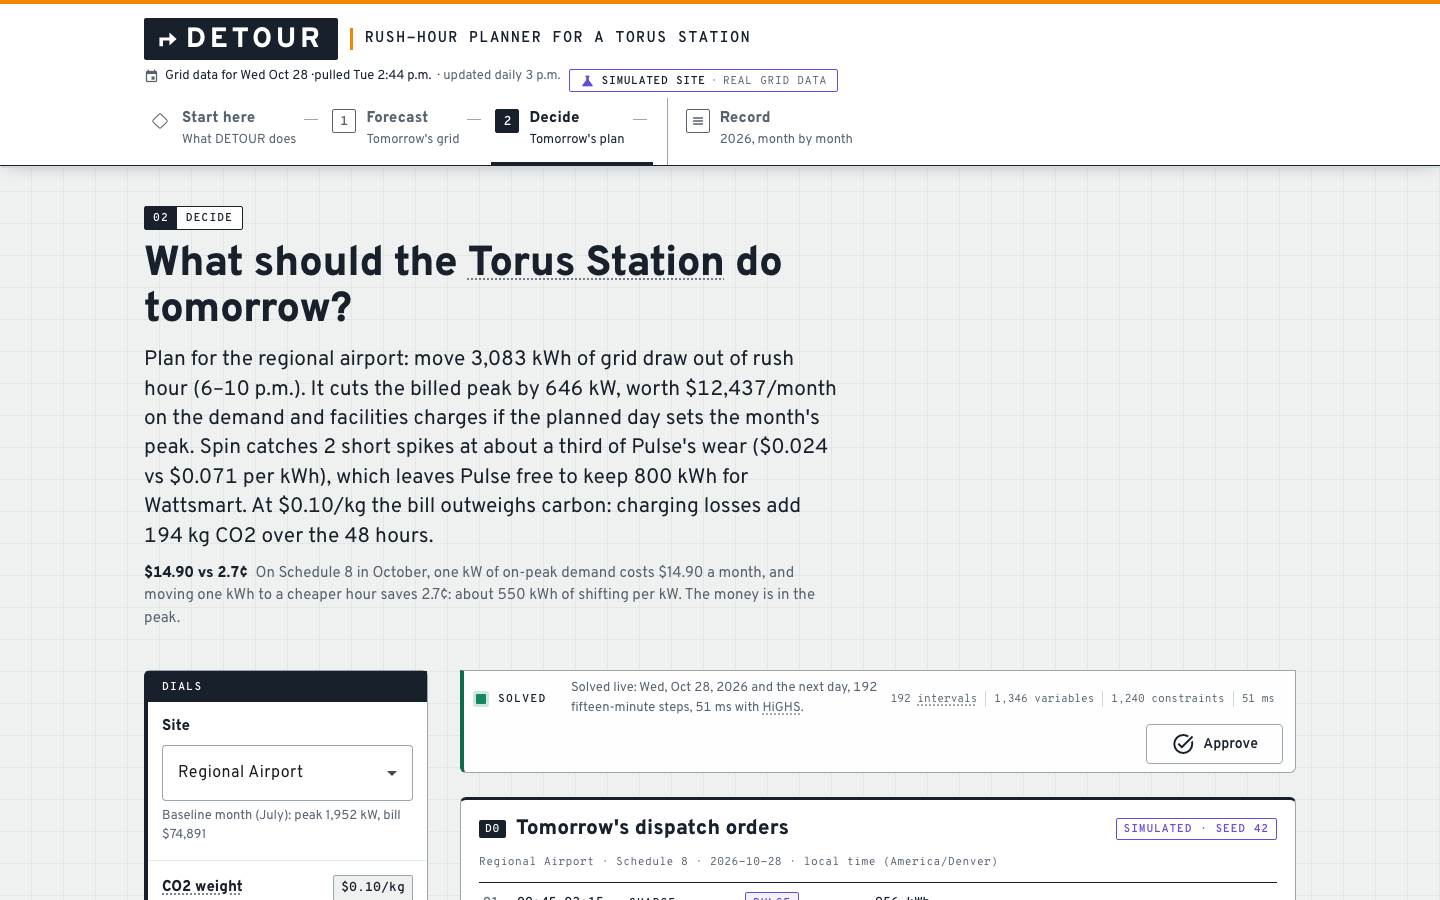
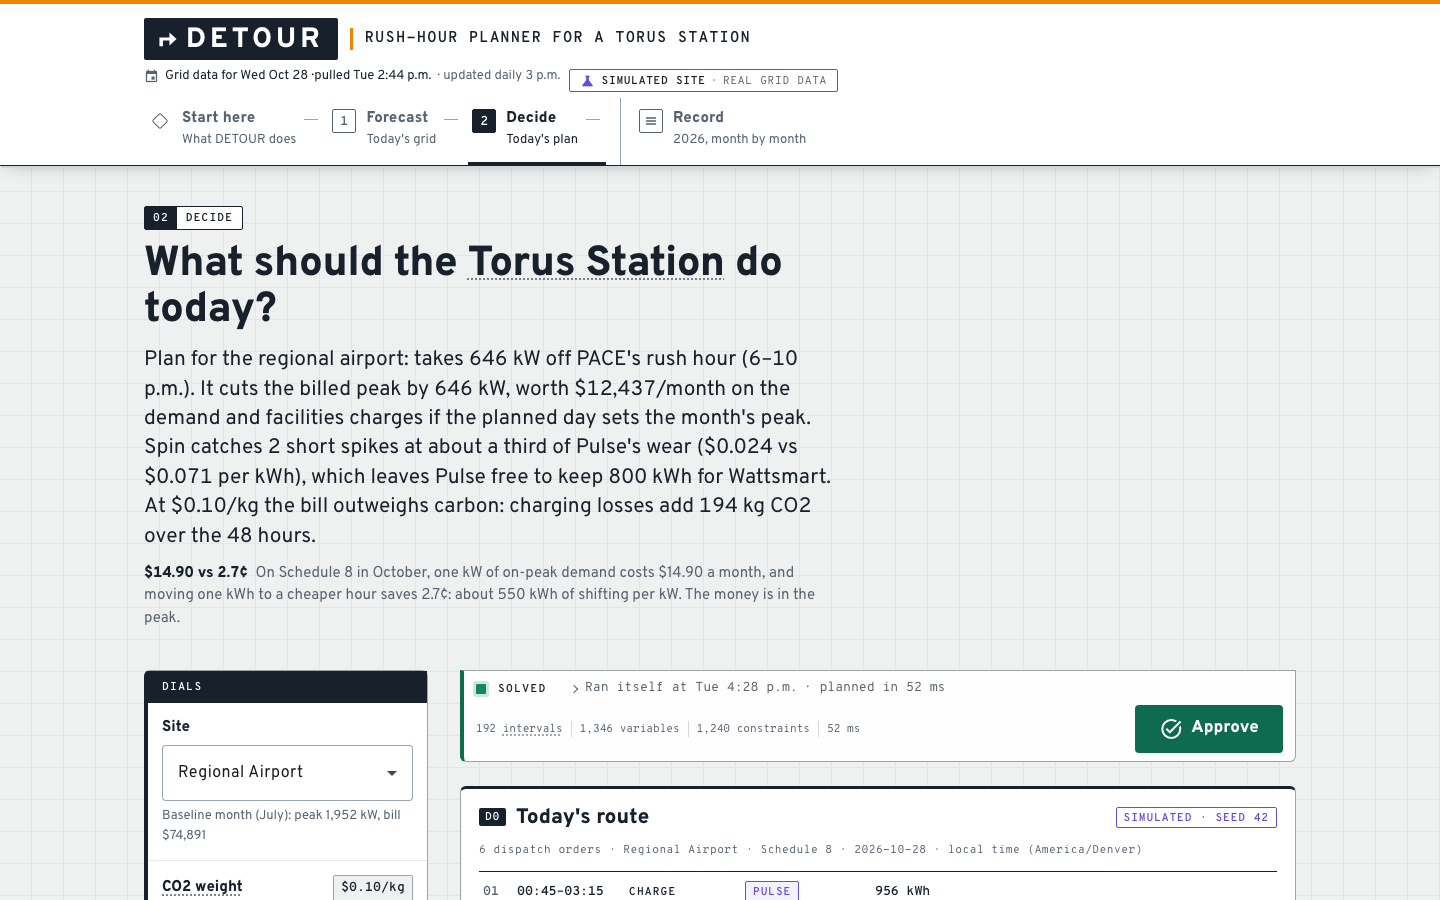
docs: drop the web.app link and update README for phase 12 (#32)
docs: drop the web.app link and update README and screenshots for phase 12

diff --git a/README.md b/README.md
@@ -4,9 +4,7 @@
 
 ## Live at [detourgrid.com](https://detourgrid.com)
 
-Also at https://hard-tech-week-2026-torus.web.app
-
-> Built solo by [Juan Lizarazo](https://juanlizarazo.com) for the **Torus bounty (Option 1: Rush Hour for Electrons)** at the Hard Tech Hackathon, Hard Tech Week 2026, Salt Lake City.
+> Built solo by [Juan Lizarazo](https://www.linkedin.com/in/juanlizarazo/) for the **Torus bounty (Option 1: Rush Hour for Electrons)** at the Hard Tech Hackathon, Hard Tech Week 2026, Salt Lake City.
 
 > "Build software that knows when the grid is jammed and stays out of traffic."
 > — the bounty
@@ -24,6 +22,7 @@ On a simulated 2 MW regional airport on Rocky Mountain Power Schedule 8, replaye
 | **Saved Jan 1 to Oct 26, 2026** | **$88,928** vs no storage, 57% of the perfect-hindsight ceiling |
 | Best month | September, $13,000 |
 | July | $11,546, 76% of perfect hindsight, 85% of it from the demand charge, 946 kWh held for Wattsmart |
+| Grid relief, planning day | **646 kW off PACE's rush hour** (the simple shaver takes 95 kW), 3,083 kWh moved out of 6–10 p.m. |
 | Tomorrow's plan | 192 fifteen-minute steps, 1,346 variables, 1,240 constraints, solved in the browser in about 50 ms |
 
 The site load and Torus asset parameters are simulated (seed 42, reproducible anywhere). The grid data, prices and tariffs are real. Perfect hindsight is the same planner told the whole month in advance; no real controller can match it, so it is the 100% mark.
@@ -41,12 +40,16 @@ On top of that, a Wattsmart demand-response call can drain the battery right bef
 ## What DETOUR does
 
 1. **Traffic report.** Reads tomorrow's PACE grid conditions: load forecast, day-ahead prices, marginal CO2 by hour.
-2. **Plan.** Solves an LP in 15-minute steps that decides when the site's flywheel and battery charge and discharge. It cuts the customer's bill, avoids dirty hours and keeps a reserve for Wattsmart.
+2. **Plan.** Solves an LP in 15-minute steps that decides when the site's flywheel and battery charge and discharge. It takes load off PACE's rush hour, cuts the customer's bill, avoids dirty hours and keeps a reserve for Wattsmart. The result reads as a route: timed dispatch orders ending in an Arrive line, shareable as a link or a PDF plan sheet.
 3. **Proof.** Replays every month of 2026 against no storage, a naive peak-shaver and a perfect-hindsight optimum, and reports how much of the possible savings it captured.
 
 | 1 Forecast | 2 Decide | Record |
 |---|---|---|
 | ![Forecast: when is the grid jammed tomorrow](docs/screenshots/forecast.png) | ![Decide: what should the Torus Station do tomorrow](docs/screenshots/decide.png) | ![Record: has DETOUR paid off in 2026](docs/screenshots/record.png) |
+
+**The plan sheet** (Share → Download PDF): the route with its Arrive line, kW off PACE's rush hour, and the site load against the simple shaver.
+
+![DETOUR plan sheet: today's route, 646 kW off PACE's rush hour, site load and grid draw](docs/screenshots/plan-sheet.png)
 
 ## How the plan is decided
 
@@ -73,7 +76,7 @@ The EDAM day-ahead price is a planning signal only. The site is billed on the pu
 
 1. **Start here** (`/start`). "$16.84 vs 3.1¢": one kW of summer on-peak demand costs as much as shifting about 550 kWh. Below it, the three-clocks strip shows the planning day's bill, price and carbon by hour, with rush hour in orange stripes. Hover any dotted word for a definition.
 2. **1 Forecast · tomorrow's grid** (`/traffic`). Opens on a flow map at the rush hour: every PACE plant streams into one schematic grid node and on to the simulated airport, with load, price and CO2 on one hour cursor (Play, drag or arrow keys; "Flow" pauses the animation). Below it: when the grid is jammed, whether price and carbon agree, how our forecast scores against PACE's own, and why marginal and average CO2 rank the hours differently. Open an ⓘ for a how-to-read panel.
-3. **2 Decide · tomorrow's plan** (`/plan`). Pick a site, then move the CO2 weight and Wattsmart reserve dials, or switch Schedule 8/6. Decide plans tomorrow only. The LP re-solves in the browser in milliseconds and each figure shows its change from the last solve. The solver rail turns the latest solve into tomorrow's dispatch orders; Approve stamps them "queued for Lattice" (simulated, no device connected) and Download schedule exports the 15-minute CSV. The LP text is under "Under the hood".
+3. **2 Decide · tomorrow's plan** (`/plan`). Pick a site, then move the CO2 weight and Wattsmart reserve dials, or switch Schedule 8/6. Decide plans tomorrow only. The LP re-solves in the browser in milliseconds and each figure shows its change from the last solve. The plan leads with kW off PACE's rush hour, with an illustrative 100-station fleet line under the figures; the site-load chart shows the simple shaver as a dashed line for comparison. The solver rail's run log ("Ran itself at 3 p.m.") lists the daily batch steps behind the plan. "Tomorrow's route" turns the solve into timed dispatch orders ending in an Arrive line; Approve stamps them "queued for Lattice" (simulated, no device connected). Share copies a link that re-solves the same plan on the same frozen data, downloads a PDF plan sheet with a QR code, or exports the 15-minute CSV. The LP text is under "Under the hood".
 4. **Record · 2026, month by month** (`/backtest`). Not a step: the record of the plan over the year. Leads with the year ledger (saved to date, share of perfect hindsight, best month), then any month replayed day by day: DETOUR against no storage, a simple shaver and perfect hindsight.
 5. **Architecture** (back on `/start`, "How DETOUR works"). The pipeline below, drawn in the app.
 
@@ -83,11 +86,13 @@ Every screen ends with a "Next stop" link, so the demo walks Start → 1 Forecas
 
 | From the bounty card | Where it is |
 |---|---|
+| How would you manage the grid's congestion? | 2 Decide leads with kW off PACE's rush hour (646 kW at the demo site vs 95 kW for a simple shaver), plus an illustrative fleet line in MW and % of PACE's load |
 | Knows when the grid is jammed | 1 Forecast finds tomorrow's PACE rush hour from load, price and marginal CO2 |
 | Stays out of traffic | 2 Decide plans the station's charge and discharge around it |
 | A traffic report for tomorrow's grid | 1 Forecast, refreshed daily at 3 p.m. after the day-ahead market posts |
-| A navigation app for electricity | Start → Forecast → Decide, with a "Next stop" on every screen |
-| Scheduling around clean power | Marginal CO2 is in the objective; dispatch orders are approved and queued for Lattice |
+| A navigation app for electricity | "Tomorrow's route": timed dispatch orders ending in an Arrive line, plus a "Next stop" on every screen |
+| Agents that schedule around clean power | DETOUR runs itself daily at 3 p.m. (run log on 2 Decide); marginal CO2 is in the objective; orders are approved and queued for Lattice |
+| A complete solution | Share link and PDF plan sheet so the plan leaves the screen |
 | Free and open-source data only | EIA-930, EIA-860, CAISO OASIS, Open-Meteo, published RMP tariffs |
 | Simulated data is fine if labeled | Every simulated figure carries a "Simulated · seed 42" badge |
 | Execution | Live site, daily Cloud Function with validate-then-pin, LP solving in the browser, year-long replay |
